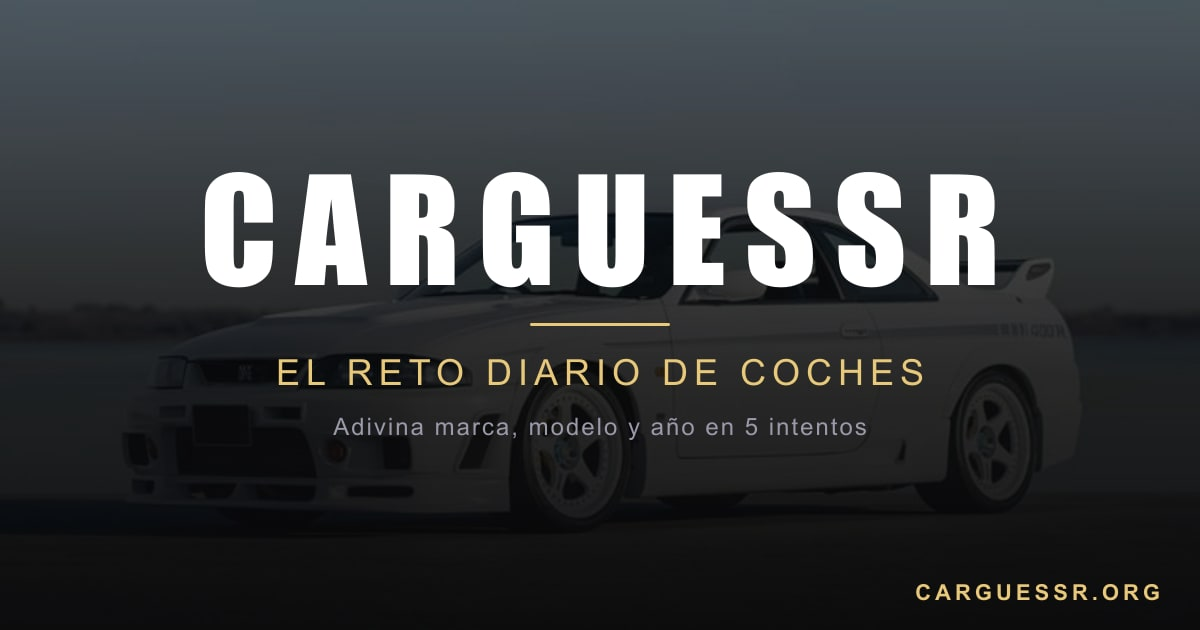
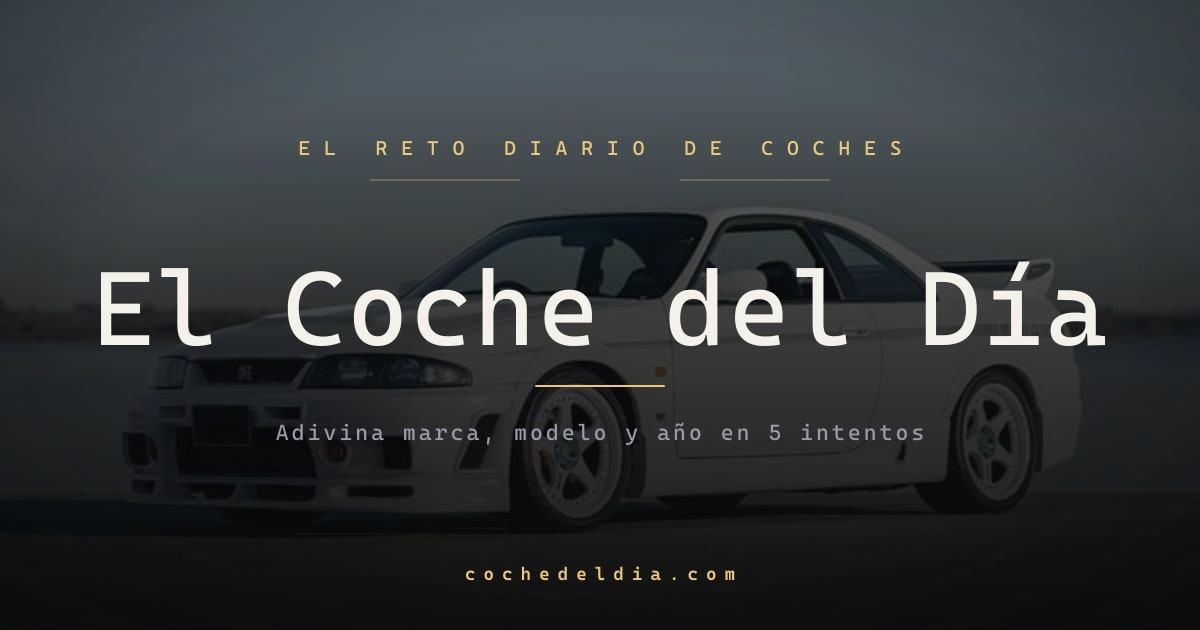
cambios para adaptar al nuevo dominio

diff --git a/src/Privacidad.jsx b/src/Privacidad.jsx
@@ -12,14 +12,16 @@
 import { useEffect } from "react";
 
 // Dirección de contacto para solicitudes (borrado, dudas, etc.). Si
-// cambias el correo del admin, sustitúyelo aquí.
-const ADMIN_CONTACT_EMAIL = "carguessrorg@gmail.com";
+// cambias el correo del admin, sustitúyelo aquí. La dirección se sirve
+// vía ImprovMX (forwarder gratuito) hacia el inbox real de Gmail —
+// para el usuario final solo existe el correo con dominio propio.
+const ADMIN_CONTACT_EMAIL = "soporte@cochedeldia.com";
 
 // Fecha de última actualización del documento, en formato humano.
 // IMPORTANTE: actualizar esta fecha CADA VEZ que cambies el contenido
 // del documento. GDPR Art. 13 exige que el usuario sepa cuándo ha sido
 // la última revisión de los términos que está aceptando implícitamente.
-const LAST_UPDATED = "23 de mayo de 2026";
+const LAST_UPDATED = "24 de mayo de 2026";
 
 export default function Privacidad() {
   // Título de pestaña y meta-tag descriptivo. SÍ queremos que sea
@@ -27,7 +29,7 @@ export default function Privacidad() {
   // confianza), así que NO añadimos noindex.
   useEffect(() => {
     const prevTitle = document.title;
-    document.title = "Política de Privacidad · CarGuessr";
+    document.title = "Política de Privacidad · El Coche del Día";
     return () => {
       document.title = prevTitle;
     };
@@ -44,7 +46,7 @@ export default function Privacidad() {
             Política de Privacidad
           </h1>
           <p className="mt-2 text-sm text-neutral-400">
-            Aplicación: <span className="text-neutral-200">CarGuessr</span> ·
+            Aplicación: <span className="text-neutral-200">El Coche del Día</span> ·
             Última actualización: {LAST_UPDATED}
           </p>
         </header>
@@ -52,7 +54,7 @@ export default function Privacidad() {
         <main className="mt-8 space-y-8 text-sm leading-relaxed sm:text-[15px]">
           <Section title="1. Datos que recopilamos">
             <p>
-              CarGuessr únicamente recopila los siguientes datos personales,
+              El Coche del Día únicamente recopila los siguientes datos personales,
               proporcionados por tu cuenta de Google en el momento del inicio
               de sesión:
             </p>
@@ -69,7 +71,7 @@ export default function Privacidad() {
           <Section title="2. Finalidad del tratamiento">
             <p>
               La única finalidad de estos datos es la creación de una cuenta
-              de usuario en CarGuessr que permita:
+              de usuario en El Coche del Día que permita:
             </p>
             <ul className="mt-3 list-disc space-y-1 pl-5 text-neutral-300">
               <li>
@@ -97,7 +99,7 @@ export default function Privacidad() {
               en reposo y en tránsito.
             </p>
             <p className="mt-3 text-neutral-400">
-              CarGuessr aplica además políticas de control de acceso a nivel
+              El Coche del Día aplica además políticas de control de acceso a nivel
               de fila (Row Level Security) para garantizar que cada usuario
               únicamente pueda consultar y modificar sus propios datos.
             </p>
@@ -105,20 +107,20 @@ export default function Privacidad() {
 
           <Section title="4. Compartición con terceros">
             <p>
-              CarGuessr <span className="text-white">no comparte</span>,{" "}
+              El Coche del Día <span className="text-white">no comparte</span>,{" "}
               <span className="text-white">no vende</span> ni cede tu nombre
               o tu correo electrónico a terceros bajo ninguna circunstancia.
             </p>
             <p className="mt-3 text-neutral-400">
               Tampoco utilizamos tu correo electrónico para enviar
               comunicaciones promocionales, publicitarias ni de ningún otro
-              tipo. CarGuessr no envía correos electrónicos a sus usuarios.
+              tipo. El Coche del Día no envía correos electrónicos a sus usuarios.
             </p>
           </Section>
 
           <Section title="5. Cookies y servicios técnicos">
             <p>
-              CarGuessr utiliza únicamente cookies{" "}
+              El Coche del Día utiliza únicamente cookies{" "}
               <span className="text-white">estrictamente necesarias</span>{" "}
               para el funcionamiento del juego. Conforme al artículo 22.2
               de la LSSI y la Directiva ePrivacy, estas cookies no
@@ -186,7 +188,7 @@ export default function Privacidad() {
               </li>
             </ul>
             <p className="mt-3 text-neutral-400">
-              CarGuessr no transfiere tus datos a terceros con fines
+              El Coche del Día no transfiere tus datos a terceros con fines
               comerciales ni publicitarios.
             </p>
           </Section>
@@ -224,7 +226,7 @@ export default function Privacidad() {
 
         <footer className="mt-12 flex flex-col items-start gap-4 border-t border-neutral-800 pt-6 sm:flex-row sm:items-center sm:justify-between">
           <p className="text-xs text-neutral-500">
-            © {new Date().getFullYear()} CarGuessr · Todos los derechos
+            © {new Date().getFullYear()} El Coche del Día · Todos los derechos
             reservados.
           </p>
 

diff --git a/index.html b/index.html
@@ -23,14 +23,15 @@
     <link rel="apple-touch-icon" href="/apple-touch-icon.png?v=4" />
     <link rel="manifest" href="/manifest.json" />
 
-    <title>Carguessr | El juego diario para los amantes de los coches</title>
-    <meta name="description" content="¿Cuánto sabes de motor? Adivina la marca, modelo y año del coche del día en 5 intentos. Un nuevo reto automovilístico cada 24 horas. ¡Juega gratis a Carguessr!" />
-    <meta name="keywords" content="carguessr, juego coches, adivinar coche, wordle de coches, motor, automovilismo, trivia coches" />
-    <meta name="author" content="Carguessr" />
+    <title>El Coche del Día · Adivina el coche en 5 intentos</title>
+    <meta name="description" content="¿Cuánto sabes de motor? Adivina la marca, modelo y año del coche del día en 5 intentos. Un nuevo reto automovilístico cada 24 horas. Juega gratis a El Coche del Día." />
+    <meta name="keywords" content="coche del día, adivina coche, wordle de coches, motor, automovilismo, simracing, trivia coches" />
+    <meta name="author" content="El Coche del Día" />
 
-    <!-- Canonical: evita penalización SEO por duplicados de carguessr.org
-         y www.carguessr.org / .com / etc. Apunta siempre al .org sin www. -->
-    <link rel="canonical" href="https://carguessr.org/" />
+    <!-- Canonical: evita penalización SEO por duplicados (www, http, etc.)
+         y consolida autoridad en el apex sin www. Tras la migración desde
+         carguessr.org (308 desde Vercel), todo el juice fluye aquí. -->
+    <link rel="canonical" href="https://cochedeldia.com/" />
 
     <!--
       Open Graph + Twitter Card.
@@ -41,42 +42,43 @@
       un preview ya pegado en redes sociales, sube el bust query (?v=2).
     -->
     <meta property="og:type" content="website" />
-    <meta property="og:site_name" content="Carguessr" />
-    <meta property="og:url" content="https://carguessr.org/" />
-    <meta property="og:title" content="Carguessr | El Wordle de Coches" />
+    <meta property="og:site_name" content="El Coche del Día" />
+    <meta property="og:url" content="https://cochedeldia.com/" />
+    <meta property="og:title" content="El Coche del Día · El reto diario para entusiastas del motor" />
     <meta property="og:description" content="¿Eres un experto en motor? Adivina marca, modelo y año del coche del día en 5 intentos. Nuevo coche cada 24h." />
-    <meta property="og:image" content="https://carguessr.org/og-image.jpg?v=1" />
-    <meta property="og:image:secure_url" content="https://carguessr.org/og-image.jpg?v=1" />
+    <meta property="og:image" content="https://cochedeldia.com/og-image.jpg?v=2" />
+    <meta property="og:image:secure_url" content="https://cochedeldia.com/og-image.jpg?v=2" />
     <meta property="og:image:type" content="image/jpeg" />
     <meta property="og:image:width" content="1200" />
     <meta property="og:image:height" content="630" />
-    <meta property="og:image:alt" content="Carguessr — El reto diario de coches. Adivina marca, modelo y año en 5 intentos." />
+    <meta property="og:image:alt" content="El Coche del Día — El reto diario de coches. Adivina marca, modelo y año en 5 intentos." />
     <meta property="og:locale" content="es_ES" />
     <meta property="og:locale:alternate" content="en_US" />
 
     <meta name="twitter:card" content="summary_large_image" />
-    <meta name="twitter:url" content="https://carguessr.org/" />
-    <meta name="twitter:title" content="Carguessr | El reto diario de coches" />
+    <meta name="twitter:url" content="https://cochedeldia.com/" />
+    <meta name="twitter:title" content="El Coche del Día · El reto diario de coches" />
     <meta name="twitter:description" content="Adivina marca, modelo y año del coche del día en 5 intentos. ¿Te atreves?" />
-    <meta name="twitter:image" content="https://carguessr.org/og-image.jpg?v=1" />
-    <meta name="twitter:image:alt" content="Carguessr — El reto diario de coches" />
+    <meta name="twitter:image" content="https://cochedeldia.com/og-image.jpg?v=2" />
+    <meta name="twitter:image:alt" content="El Coche del Día — El reto diario de coches" />
 
     <!--
       Umami Analytics — privacy-first, sin cookies, ~1 KB.
       `data-domains` limita el envío al dominio real de producción para
       que las pruebas en localhost / preview-deploys no contaminen los
-      datos. `data-website-id` lo rellenas con el UUID que te da Umami
-      al crear el website en cloud.umami.is.
+      datos. Durante la ventana de migración admitimos también
+      carguessr.org para no perder los eventos que entren por el redirect
+      308 durante las primeras semanas. Cuando consolides (en 30-60 días)
+      puedes quitarlo y dejar solo cochedeldia.com.
 
-      Si nunca llegas a poner un ID válido, el script se carga pero el
-      backend rechaza los eventos por website-id inexistente — sin error
-      visible, sin ruido.
+      `data-website-id` es el mismo de siempre — un único website en Umami,
+      solo cambia el dominio en su dashboard.
     -->
     <script
       defer
       src="https://cloud.umami.is/script.js"
       data-website-id="6d3e8cc0-401e-42b0-8cd4-dfc2a2748f1b"
-      data-domains="carguessr.org"
+      data-domains="cochedeldia.com,carguessr.org"
     ></script>
     </head>
   <body>

diff --git a/src/hooks/useGame.js b/src/hooks/useGame.js
@@ -47,14 +47,16 @@ function triggerHaptic(pattern) {
 }
 
 function buildShareText(guesses) {
-  // Formato compacto: dominio + emoji + fecha en una sola cabecera, sin
-  // URL repetida al final. Pros vs el formato Wordle clásico:
+  // Formato compacto: marca + dominio + emoji + fecha en una sola cabecera,
+  // sin URL repetida al final. Pros vs el formato Wordle clásico:
   //   - Ahorra una línea (la URL final).
   //   - La mayoría de clientes (Telegram/WhatsApp) NO renderizan tarjeta
   //     de preview cuando la URL está mezclada con texto en la misma línea,
   //     así que el mensaje no se infla con el "card" de OpenGraph.
-  //   - "Carguessr.org" sigue siendo clicable: los autodetectores de URL
+  //   - "cochedeldia.com" sigue siendo clicable: los autodetectores de URL
   //     reconocen el dominio aunque no lleve https://.
+  // Estructura: "El Coche del Día" identifica el juego para quien lo recibe
+  // por primera vez; el "·" lo separa visualmente del dominio.
   const lines = guesses.map((g) => {
     const m = g.marca.status === "correct" ? "✅" : "❌";
     const mo = g.modelo.status === "correct" ? "✅" : "❌";
@@ -63,7 +65,7 @@ function buildShareText(guesses) {
     return m + mo + a;
   });
 
-  return `Carguessr.org 🚗 ${getShareDate()}\n${lines.join("\n")}`;
+  return `El Coche del Día · cochedeldia.com 🚗 ${getShareDate()}\n${lines.join("\n")}`;
 }
 
 // El estado del coche ahora solo contiene lo mínimo para pintar la UI: la

diff --git a/src/components/HeaderSandwich.jsx b/src/components/HeaderSandwich.jsx
@@ -386,19 +386,14 @@ export default function HeaderSandwich({
             />
           </div>
 
-          {/* CENTRO: logo + línea dorada */}
-          <div className="pointer-events-none absolute inset-0 flex flex-col items-center justify-center select-none">
-            <span
-              className="
-                translate-y-[1px] whitespace-nowrap font-display
-                text-[1.75rem] tracking-widest text-white
-                min-[360px]:text-[1.95rem] sm:text-[2.2rem]
-              "
-            >
-              CARGUESSR
-            </span>
-            <span className="mt-[3px] h-[1.5px] w-14 rounded-full bg-accent/70" />
-          </div>
+          {/* CENTRO: vacío intencionalmente. Tras la migración a
+              "El Coche del Día", la marca verbal vive en favicon, share
+              card, OG image y splash — no en el header persistente. Es
+              la decisión que toman Apple Music, Spotify, Linear, etc.:
+              dentro de la app, el header es UI funcional, no escaparate.
+              El usuario recurrente no necesita que le recuerden cada
+              sesión dónde está. La mirada se libera para el contenido
+              (el coche borroso del día). */}
 
           {/* DERECHA: Garaje + Ranking */}
           <div className="relative z-10 flex items-center">

diff --git a/src/components/GarageDoorSplash.jsx b/src/components/GarageDoorSplash.jsx
@@ -24,7 +24,7 @@ const DOOR_SLATS = 5;          // 5 tablas, cada una con 3 paneles
 const PANELS_PER_SLAT = 3;
 
 export default function GarageDoorSplash({
-  title = "CARGUESSR",
+  title = "EL COCHE DEL DÍA",
   subtitle,
 }) {
   // La duración mínima la enforce el padre (App.jsx) — este componente
@@ -183,9 +183,12 @@ export default function GarageDoorSplash({
           />
         </div>
 
-        {/* Título y subtítulo */}
+        {/* Título y subtítulo.
+            Tracking y tamaño bajados respecto al "CARGUESSR" histórico
+            para acomodar el wordmark más largo "EL COCHE DEL DÍA" sin
+            que overflow en mobile (~360px de ancho útil). */}
         <motion.p
-          className="mt-7 font-display text-2xl tracking-[0.32em] text-white"
+          className="mt-7 font-display text-[1.35rem] tracking-[0.22em] text-white text-center sm:text-[1.55rem] sm:tracking-[0.26em]"
           initial={{ opacity: 0, y: -4 }}
           animate={{ opacity: 1, y: 0 }}
           transition={{ delay: 1.1, duration: 0.4, ease: "easeOut" }}

diff --git a/src/App.jsx b/src/App.jsx
@@ -100,6 +100,9 @@ export default function App() {
   //   - sessionStorage se borra al cerrar el navegador / pestaña, así
   //     que el splash vuelve a salir en la siguiente sesión "fresh".
   const SPLASH_MIN_MS = 1700;
+  // Prefijo histórico "carguessr_" mantenido a propósito tras la migración
+  // a cochedeldia.com — cambiarlo invalidaría la sessionStorage de los
+  // usuarios activos y todos verían el splash de nuevo en su próxima visita.
   const SPLASH_SEEN_KEY = "carguessr_splash_seen";
   const splashAlreadySeen =
     typeof window !== "undefined" &&
@@ -471,7 +474,7 @@ export default function App() {
             </a>
           </nav>
           <p className="text-[9px] tracking-[0.18em] text-muted/70">
-            © {new Date().getFullYear()} CarGuessr
+            © {new Date().getFullYear()} El Coche del Día
           </p>
         </footer>
       </div>

diff --git a/src/lib/webVitals.js b/src/lib/webVitals.js
@@ -10,7 +10,7 @@
 // Métricas que emitimos (todas a través del paquete oficial `web-vitals`,
 // que ya implementa el sampling y las definiciones canónicas de Google):
 //   - LCP: Largest Contentful Paint. Cuándo aparece el contenido principal.
-//     En carguessr suele ser la imagen del coche del día.
+//     En El Coche del Día suele ser la imagen del coche del día.
 //   - CLS: Cumulative Layout Shift. Cuánto "salta" el layout. Multiplicamos
 //     por 1000 para evitar mandar floats microscópicos.
 //   - INP: Interaction to Next Paint. Reemplaza a FID en 2024+. La métrica

diff --git a/src/components/Header.jsx b/src/components/Header.jsx
@@ -186,7 +186,9 @@ export default function Header({
             min-[360px]:text-[1.95rem] sm:text-[2.2rem]
           "
         >
-          CARGUESSR
+          {/* Marca eliminada del header tras la migración a "El Coche
+              del Día". Este componente Header.jsx queda como variante
+              histórica — el header en uso es HeaderSandwich.jsx. */}
         </div>
 
         <div className="z-10 flex min-w-0 items-center justify-end gap-0.5">

diff --git a/src/components/RepescaDrawAnimation.jsx b/src/components/RepescaDrawAnimation.jsx
@@ -151,7 +151,7 @@ export default function RepescaDrawAnimation({ veteran = false, onDismiss }) {
                   />
                   <span className="font-display text-5xl text-accent/70">?</span>
                   <div className="absolute bottom-3 left-0 right-0 text-center text-[8px] uppercase tracking-[0.24em] text-accent/40">
-                    Carguessr
+                    Coche del Día
                   </div>
                 </div>
 

diff --git a/src/Repesca.jsx b/src/Repesca.jsx
@@ -86,7 +86,7 @@ export default function Repesca() {
     meta.content = "noindex, nofollow";
     document.head.appendChild(meta);
     const prevTitle = document.title;
-    document.title = "Repesca · Carguessr";
+    document.title = "Repesca · El Coche del Día";
     return () => {
       document.head.removeChild(meta);
       document.title = prevTitle;
